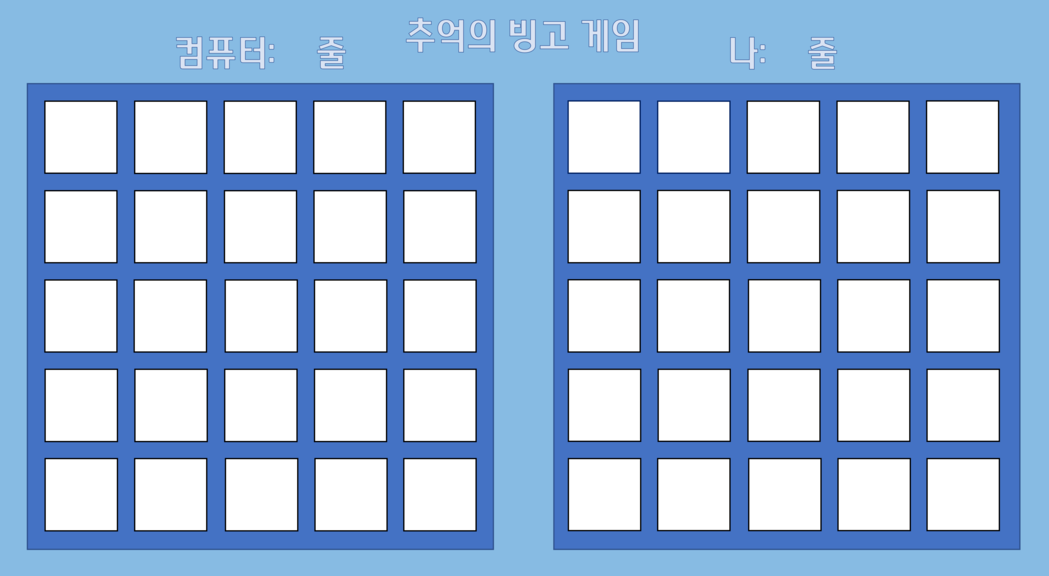
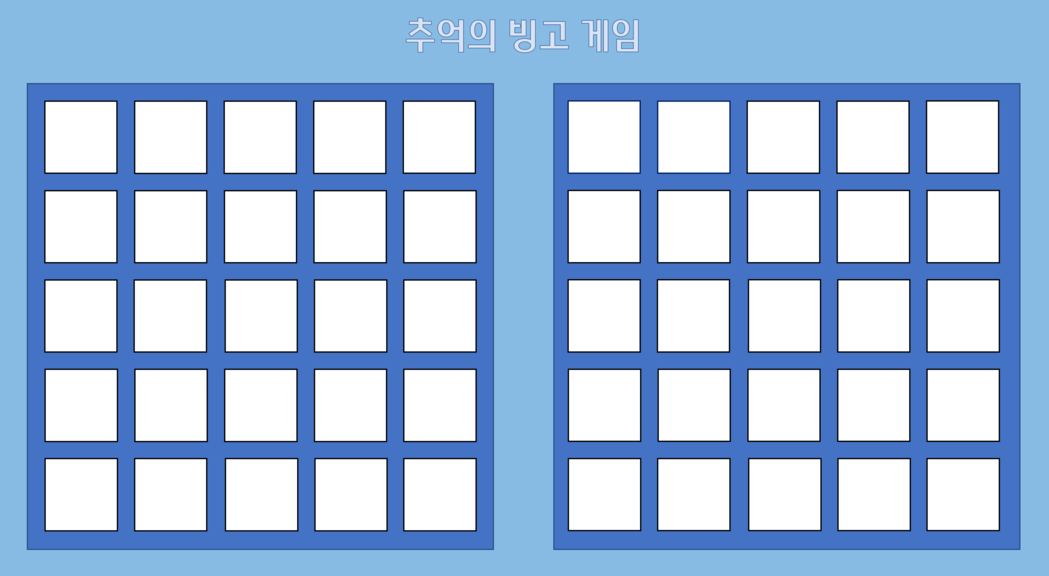
v2.1

diff --git a/binggo.cpp b/binggo.cpp
@@ -44,28 +44,10 @@ int main() {
     scene3 = Scene::create("게임화면", "Images/board.png");
 
     start = Object::create("Images/start.png", scene1, 462, 124);
-    restart = Object::create("Images/restart.png", scene3, 462, 231);
-    restart->hide();
+    
 
     start->setOnMouseCallback([&](auto, auto, auto, auto)->bool {
         scene3->enter();
-        return true;
-        });
-
-    restart->setOnMouseCallback([&](auto, auto, auto, auto)->bool {
-        scene1->enter();
-        restart->hide();
-
-        //값 초기화
-        for (int i = 0; i < 5;i++) {
-            for (int j = 0; j < 5;j++) {
-                myCheck[i][j]=0;
-                comCheck[i][j] = 0;
-            }
-        }
-        result[0] = 0;
-        result[1] = 0;
-
         return true;
         });
 
@@ -80,10 +62,10 @@ int main() {
 }
 
 int index_to_x(int who, int index) { //빙고판 버튼 x 위치 지정 함수
-    if (who == 1) {//나?
-        return 568 + 90 * index;
+    if (who == 1) {//나라면,
+        return 568 + 89 * index;
     }
-    else return 45 + 90 * index; //컴퓨터?
+    else return 45 + 89 * index; //컴퓨터면,
 }
 
 int index_to_y(int index) {
@@ -96,7 +78,7 @@ char comCheck[5][5] = { {0, } }, myCheck[5][5] = { {0, } };
 int result[2] = { 0, 0 };
 int comPlay, myPlay;
 
-int game_value(ObjectPtr piece) {
+int game_value(ObjectPtr piece) { //피스 오브젝트에서 값을 뽑아내는 함수
     for (int i = 0; i < 5;i++) {
         for (int j = 0; j < 5;j++) {
             if (my_board[i][j] == piece) return myBoard[i][j];
@@ -106,7 +88,7 @@ int game_value(ObjectPtr piece) {
     return -1; //INVALID PIECE
 }
 
-int game_index(int board[5][5], int play) {
+int game_index(int board[5][5], int play) { //피스 오브젝트에서 인덱스를 뽑아내는 함수
     for (int i = 0; i < 5;i++) {
         for (int j = 0; j < 5;j++) {
             if (board[i][j] == play) return i*10+j;
@@ -115,7 +97,7 @@ int game_index(int board[5][5], int play) {
 
     return -1; //INVALID PIECE
 }
-void play_game() {
+void play_game() { //게임의 메인이 되는 함수
 
     SoundPtr ready1 = Sound::create("Sounds/준비.mp3");
     SoundPtr ready2 = Sound::create("Sounds/시작.mp3");
@@ -128,6 +110,9 @@ void play_game() {
         if (check(comBoard, myBoard)) break;
     }
 
+    
+
+    /* 프롬프트에 출력
     for (int i = 0; i < 5; i++) {
         for (int j = 0; j < 5; j++) {
             if (comCheck[i][j] == 1) printf("(%2d)", comBoard[i][j]);
@@ -140,7 +125,7 @@ void play_game() {
         }
         printf("\n");
     }
-
+    */
     char path[30];
     int a;
 
@@ -148,7 +133,13 @@ void play_game() {
         sprintf(path, "Sounds/%d.mp3", i+1);
         num[i] = Sound::create(path);
     }
+    
+    /*
     printf("init start");
+    ObjectPtr com = Object::create("Images/score_0.png", scene3, 280, 496);
+    ObjectPtr me = Object::create("Images/score_0.png", scene3, 772, 496);
+    //상단에 점수 나타내는 오브젝트
+    */
 
     for (int i = 0; i < 5; i++) {
         for (int j = 0; j < 5; j++) {
@@ -158,75 +149,112 @@ void play_game() {
             my_board[i][j] = Object::create(path, scene3, index_to_x(1, j), index_to_y(i));
 
             my_board[i][j]->setOnMouseCallback([&](auto piece, auto x, auto y, auto action)->bool {
-                //if (checkPlay(myBoard, myCheck, myPlay)) {
-                for (int k = 0; k < 2; k++) {
-                    char msg[100];
-                    if (k == 0) {
-                        int myPlay1 = game_value(piece);
-                        printf("myPlay1: %d \n", myPlay1);
-                        num[myPlay1-1]->play(false);
-                        choice(myBoard, myCheck, myPlay1, piece);
-                        a = game_index(comBoard, myPlay1);
-                        choice(comBoard, comCheck, myPlay1, com_board[a / 10][a % 10]);
+                int myPlay1 = game_value(piece);
+                printf("myPlay1: %d \n", myPlay1);
+                if (checkPlay(myBoard, myCheck, myPlay1)) {
+                    for (int k = 0; k < 2; k++) {
+                        char msg[100];
+                        if (k == 0) {
 
-                        printf("myPlay2: %d \n", myPlay1);
-                    }
-                    else {
-                        comPlay = comChoice(comBoard, comCheck);
-                        Sleep(800);
-                        sprintf(msg, "컴퓨터의 차례입니다. 컴퓨터는 %d를 골랐습니다.", comPlay);
+                            num[myPlay1 - 1]->play(false);
+                            choice(myBoard, myCheck, myPlay1, piece);
+                            a = game_index(comBoard, myPlay1);
+                            choice(comBoard, comCheck, myPlay1, com_board[a / 10][a % 10]);
+
+                            printf("myPlay2: %d \n", myPlay1);
+                        }
+                        else {
+                            comPlay = comChoice(comBoard, comCheck);
+                            Sleep(800);
+                            sprintf(msg, "컴퓨터의 차례입니다. 컴퓨터는 %d를 골랐습니다.", comPlay);
+                            showMessage(msg);
+                            printf("comPlay: %d\n", comPlay);
+                            num[comPlay - 1]->play(false);
+                            a = game_index(myBoard, comPlay);
+                            choice(myBoard, myCheck, comPlay, my_board[a / 10][a % 10]);
+                            a = game_index(comBoard, comPlay);
+                            choice(comBoard, comCheck, comPlay, com_board[a / 10][a % 10]);
+                        }
+                        printf("choice finish \n");
+
+                        /*
+                        for (int i = 0; i < 5; i++) {
+                            for (int j = 0; j < 5; j++) {
+                                if (comCheck[i][j] == 1) printf("(%2d)", myBoard[i][j]);
+                                else printf(" %2d ", comBoard[i][j]); //printf("    ");
+                            }
+                            printf("          ");
+                            for (int j = 0; j < 5; j++) {
+                                if (myCheck[i][j] == 1) printf("(%2d)", myBoard[i][j]);
+                                else printf(" %2d ", myBoard[i][j]);
+                            }
+                            printf("\n");
+                        }
+                        */
+
+                        binggo(comCheck, myCheck, result);
+
+                        sprintf(msg, "<현재 점수> 컴퓨터(왼쪽): %d줄 나(오른쪽): %d줄", result[0], result[1]);
                         showMessage(msg);
-                        printf("comPlay: %d\n", comPlay);
-                        num[comPlay - 1]->play(false);
-                        a = game_index(myBoard, comPlay);
-                        choice(myBoard, myCheck, comPlay, my_board[a / 10][a % 10]);
-                        a = game_index(comBoard, comPlay);
-                        choice(comBoard, comCheck, comPlay, com_board[a / 10][a % 10]);
+
+                        /*
+                        char path2[50];
+                        sprintf(path2, "Images/score_%d.png", result[0]);
+                        printf("%s", path2);
+                        com->setImage(path2);
+                        sprintf(path2, "Images/score_%d.png", result[1]);
+                        me->setImage(path2);
+                        */
+                        printf("binggo\n");
+                        if (result[0] >= 5 || result[1] >= 5) game_end(result);
                     }
-                    printf("choice finish \n");
-
-                    for (int i = 0; i < 5; i++) {
-                        for (int j = 0; j < 5; j++) {
-                            if (comCheck[i][j] == 1) printf("(%2d)", myBoard[i][j]);
-                            else printf(" %2d ", comBoard[i][j]); //printf("    ");
-                        }
-                        printf("          ");
-                        for (int j = 0; j < 5; j++) {
-                            if (myCheck[i][j] == 1) printf("(%2d)", myBoard[i][j]);
-                            else printf(" %2d ", myBoard[i][j]);
-                        }
-                        printf("\n");
-                    }
-
-                    binggo(comCheck, myCheck, result);
-                        
-                    sprintf(msg, "<현재 점수> 컴퓨터(왼쪽): %d줄 나(오른쪽): %d줄", result[0], result[1]);
-                    showMessage(msg);
-
-                    if (result[0] == 5 || result[1] == 5) game_end(result);
                 }
-                //}
             return true;
             });
 
-            //printf("mybutton finish");
+            
 
             //sprintf(path, "Images/%d.png", comBoard[i][j]);
             com_board[i][j] = Object::create("Images/blank.png", scene3, index_to_x(0, j), index_to_y(i));
         }
     }
     ready2->play(false);
+
+    restart = Object::create("Images/restart.png", scene3, 462, 231);
+    restart->hide();
+    restart->setOnMouseCallback([&](auto, auto, auto, auto)->bool {
+        scene1->enter();
+        restart->hide();
+
+        //값 초기화
+        for (int i = 0; i < 5;i++) {
+            for (int j = 0; j < 5;j++) {
+                myCheck[i][j] = 0;
+                comCheck[i][j] = 0;
+            }
+        }
+        result[0] = 0;
+        result[1] = 0;
+
+        return true;
+        });
+
 }
 
-void game_end(int result[2]) {
+void game_end(int result[2]) { //승자가 나왔을 때, 게임 종료 함수
     SoundPtr win = Sound::create("Sounds/게임클리어8.mp3");
     SoundPtr drew = Sound::create("Sounds/까마귀.mp3");
     SoundPtr lose = Sound::create("Sounds/야유.mp3");
 
-    if (result[0] == 5) {
-        if (result[1] == 5) {
+    if (result[0] >= 5) {
+        if (result[1] == result[0]) {
             drew->play(false);
             showMessage("비겼습니다.");
+            restart->show();
+        }
+        else if (result[0] < result[1]) {
+            win->play(false);
+            showMessage("당신이 이겼습니다!");
             restart->show();
         }
         else {
@@ -397,47 +425,57 @@ int comChoice(int comBoard[5][5], char comCheck[5][5]) {
                 for (int j = 0; j < 5; j++) {
                     comPlay = comBoard[randlist[randint][j]][randlist[randint][j]];
                     if (checkPlay(comBoard, comCheck, comPlay)) return comPlay;
+                    printf("%d", index);
                 }
             case 11:
                 for (int j = 0; j < 5; j++) {
                     comPlay = comBoard[randlist[randint][j]][4 - randlist[randint][j]];
                     if (checkPlay(comBoard, comCheck, comPlay)) return comPlay;
+                    printf("%d", index);
                 }
             case 2:
                 for (int j = 0; j < 5; j++) {
                     comPlay = comBoard[2][randlist[randint][j]];
                     if (checkPlay(comBoard, comCheck, comPlay)) return comPlay;
+                    printf("%d", index);
                 }
             case 7:
                 for (int j = 0; j < 5; j++) {
                     comPlay = comBoard[randlist[randint][j]][2];
                     if (checkPlay(comBoard, comCheck, comPlay)) return comPlay;
+                    printf("%d", index);
                 }
             case 1:
             case 3:
                 for (int j = 0; j < 5; j++) {
                     comPlay = comBoard[index][randlist[randint][j]];
                     if (checkPlay(comBoard, comCheck, comPlay)) return comPlay;
+                    printf("%d", index);
                 }
             case 6:
             case 8:
                 for (int j = 0; j < 5; j++) {
                     comPlay = comBoard[randlist[randint][j]][index - 5];
                     if (checkPlay(comBoard, comCheck, comPlay)) return comPlay;
+                    printf("%d", index);
                 }
             case 0:
             case 4:
                 for (int j = 0; j < 5; j++) {
                     comPlay = comBoard[index][randlist[randint][j]];
                     if (checkPlay(comBoard, comCheck, comPlay)) return comPlay;
+                    printf("%d", index);
                 }
             case 5:
             case 9:
                 for (int j = 0; j < 5; j++) {
                     comPlay = comBoard[randlist[randint][j]][index - 5];
                     if (checkPlay(comBoard, comCheck, comPlay)) return comPlay;
+                    printf("%d", index);
                 }
             }
         }
     }
+    comPlay = comChoice(comBoard, comCheck);
+    return comPlay;
 }
